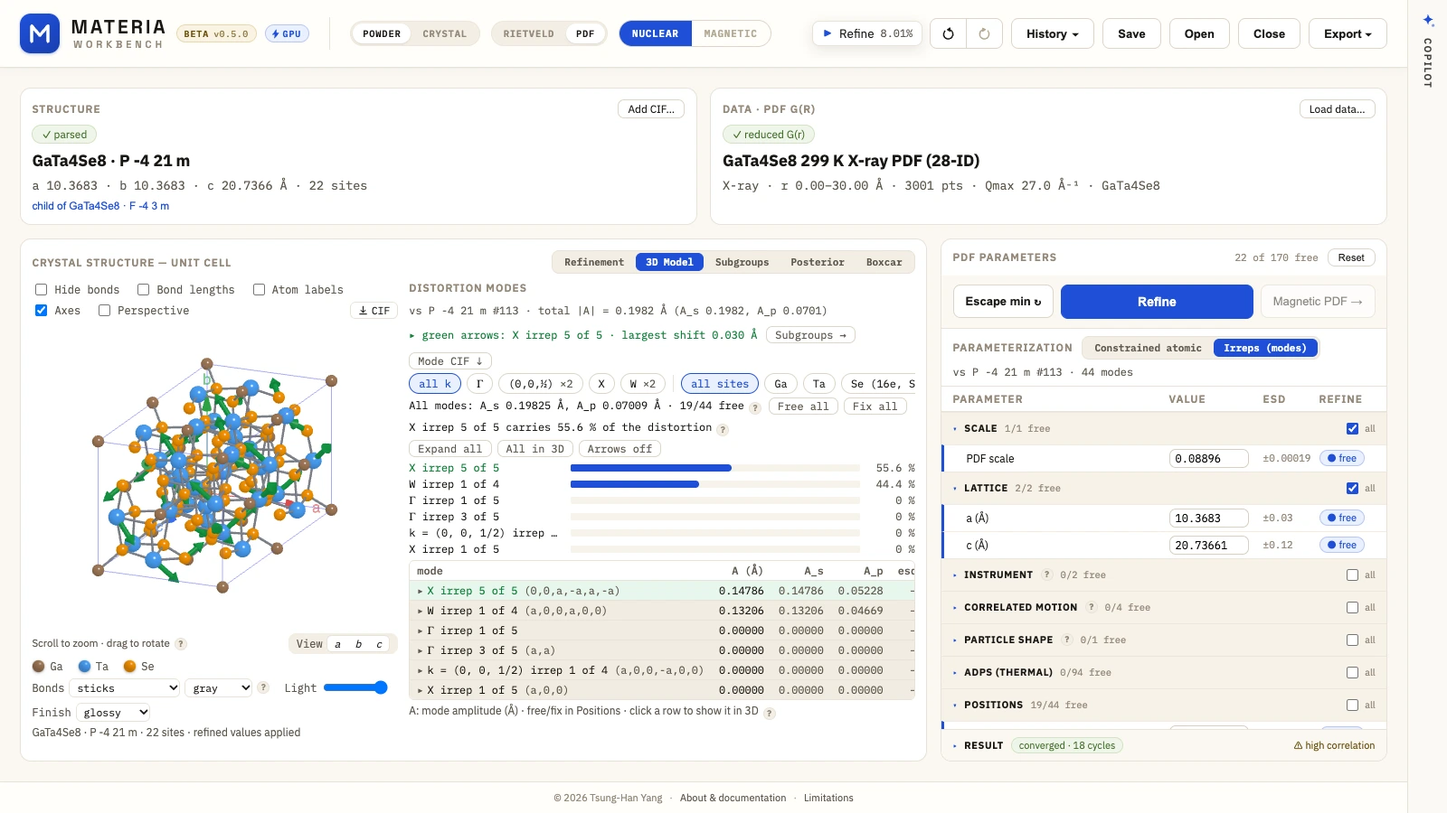
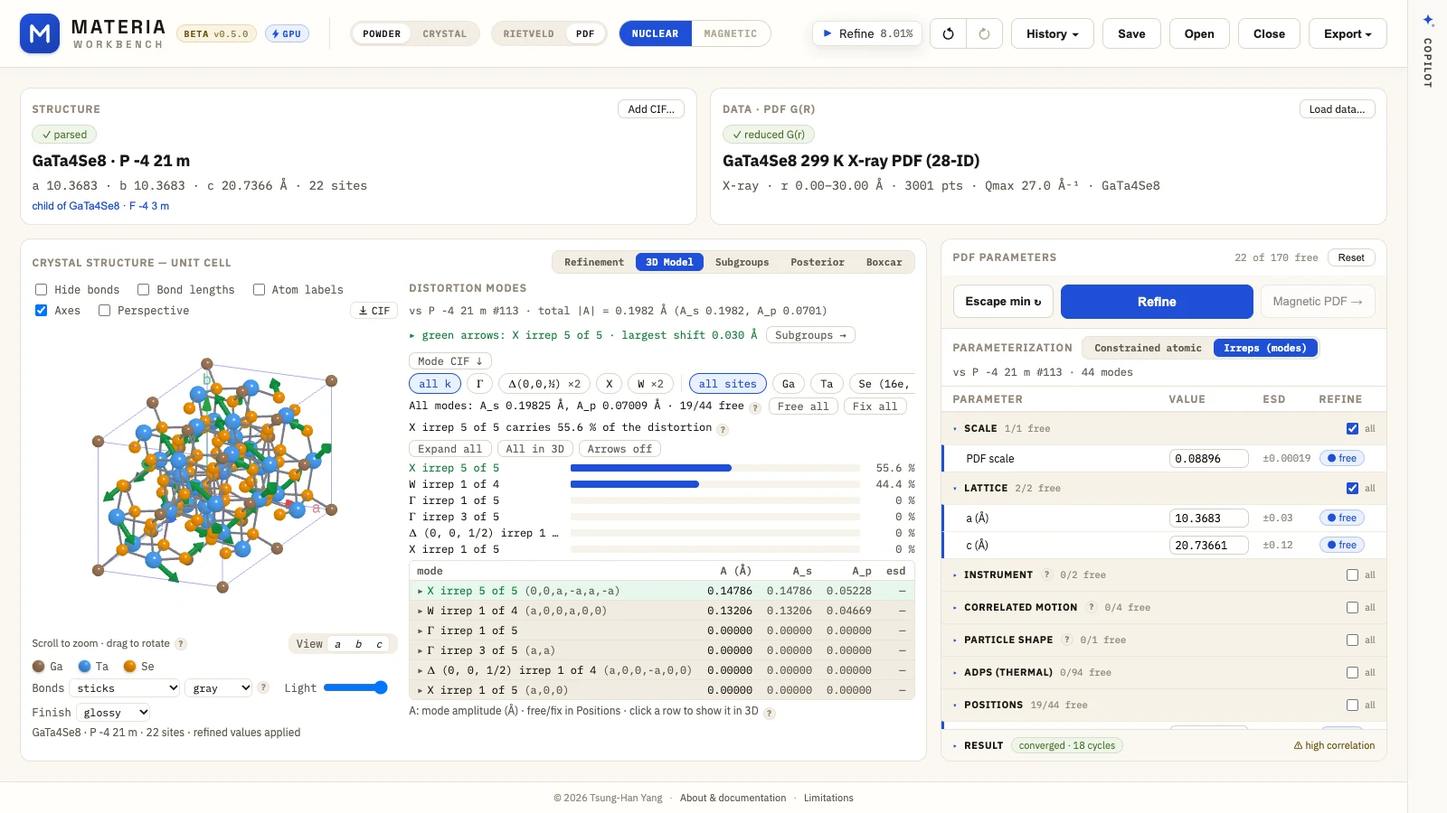
Docs: k-vector names, the decision, the report, the re-shot images (THY-73)
- ADR 0004: the owner's decision (option 1, built for a later table),
  what shipped (k-vector names from the convention, the ISOTROPY check
  and what it removed, the label-provider seam), and the permission
  request; ADR 0005: ISOTROPY's k-point list is a check, never a source.
- docs/reports/2026-11-08-k-vector-names.md: where each reference value
  came from, the oracle runs, every old -> new star name in 2×2×2, saved
  projects, checks, and the paid eval to run.
- GLOSSARY (k-vector name), LIMITATIONS (unnamed lattices, old projects),
  VALIDATION (2279 names agree), CHANGELOG (Unreleased).
- README and DEMO_SCRIPT images re-shot from the production build (the
  Copilot's by a scripted model): subgroups-tree, subgroups-find,
  modes-3d, copilot-lowered, whose chips now read Δ(0,0,½).

Changed region(s): [[0.3125, 0.6844, 0.625, 0.8711], [0.3438, 0.4667, 0.625, 0.4978], [0.2812, 0.6533, 0.375, 0.6844]]

diff --git a/docs/reports/2026-11-08-k-vector-names.md b/docs/reports/2026-11-08-k-vector-names.md
@@ -1,0 +1,181 @@
+# k-vector names in the Bilbao convention, and a label-provider seam (THY-73)
+
+Linear THY-73. The owner lifted the feature freeze for this issue on
+2026-11-08 and chose, after step A, option 1 of
+[ADR 0004](../adr/0004-generic-irrep-labels-in-the-app.md): the Bilbao
+server's k-vector names now, irreps with generic numbers, built so that CDML
+irrep labels can be plugged in later. ADR 0004 holds the licensing analysis,
+the options and the permission request; ADR 0005 holds the rule for the
+ISOTROPY check.
+
+## What changed
+
+- **k-vector names** (`src/core/crystal/irreps/kVectorNames.ts`). A star is
+  named as KVEC names it, with CDML's labels in the conventional reciprocal
+  basis of the ITA standard setting:
+  - a point has its name: "A", "X";
+  - a point on a line has the line's name and its canonical arm's
+    coordinates: "Δ (0, 0, 1/2)".
+
+  The table covers cP, cF, cI, tP, oP and hP, plus hR's T, L and F. It was
+  written by hand from the Bradley & Cracknell / CDML convention. aP, mP,
+  mC, oC, oF, oI, tI and the hR lines keep their coordinates.
+- **Irrep labels**: "<k-vector name> irrep n of m", in THY-64's order, which
+  does not change. The Γ chip keeps "Γn".
+- **A label-provider seam** (`irrepLabels.ts`). Each irrep carries a
+  fingerprint and its generic label. The label shown is the active
+  provider's; the default provider is generic. A table provider matches by
+  fingerprint and leaves the engine, the numbering and saved projects alone.
+  No table ships, and a test proves the seam with a two-row fake table.
+- **Where the names show**:
+  - The Subgroups chips and rows. A tag writes "Δ(0,0,½)·2".
+  - The 3D chips.
+  - The magnetic page ("Γmag = … at A").
+  - The Agent's tools. `list_subgroups`' k filter takes "Δ", "DT", the
+    coordinates, or both.
+  - Mode CIF tokens ("DT_irrep2of4").
+
+## Where the reference values come from
+
+The values in the tests were typed by hand. No Bilbao or ISOTROPY data file
+is committed. Bilbao's programs (KVEC's listings, REPRES) answer scripts with
+a Turnstile bot check, so they were not read; their static help pages were.
+
+| Value | Source | Read |
+| --- | --- | --- |
+| KVEC uses CDML's labels and coefficients (Tables 3.9, 3.11); conventional coefficients for centred lattices; indexed labels only for equivalent representatives; holohedral labels kept in lower classes ("ex") | <https://www.cryst.ehu.eus/cryst/help/brillouin_zone_databases.html> | 2026-11-08 |
+| P321 (No. 150): Δ is 0, 0, z between Γ (z = 0) and A (z = ½); KA is (2/3, −1/3, 0); T, TA, LD, M share a block, T and TA meeting at M; S, SA, Q, QA, L share one; R3 (No. 146): LD at primitive (¼, ¼, ¼) is (0, 0, ¾) on hexagonal axes; the 3-fold line's labels depend on the axial ratio; C12/m1's labels are A112/m's, transformed | <https://www.cryst.ehu.eus/cryst/help/examples_kvec.html> | 2026-11-08 |
+| REPRES's irrep labels coincide with CDML's and ISOTROPY's | <https://www.cryst.ehu.eus/rep/repres.html> | 2026-11-08 |
+| F-43m (GaTa₄Se₈): "Δ (0,0,½)", "Σ (0,½,½)"; fcc K (¾,¾,0) and U (¼,1,¼); P6₃/mmc (Mn₃Ga) A | the THY-73 issue | 2026-11-04 |
+| Every other name in `kVectorNames.test.ts` | the Bradley & Cracknell / CDML convention, as written in the table | — |
+| SrTiO₃, Sr at the origin: M irrep 3 (the in-phase tilt) is M2+, R irrep 8 (the antiphase tilt) is R5−; with Ti at the origin M3+ and R4+ | the ISOTROPY oracle's correspondence by character, runs [41578511400](https://github.com/drthyang/materia-platform/actions/runs/41578511400) (2026-11-03) and [42520923238](https://github.com/drthyang/materia-platform/actions/runs/42520923238) (2026-11-08); R4+ → R5− on moving the origin from B to A, Perez-Mato, Orobengoa & Aroyo (2010), *Acta Cryst.* A66, 558, footnote 9 | 2026-11-08 |
+
+The SrTiO₃ correspondence is stated in USER_GUIDE as a note, not a table the
+app ships.
+
+## The ISOTROPY check
+
+The opt-in `isotropy-oracle.yml` label step now also compares every name with
+ISOTROPY's k-vector list for all 230 types. ISOTROPY lists one label per
+k-vector type, so the check samples each of its points, its lines at a = 1/16,
+and its planes. It is a check, not a source.
+
+- **First run** ([42519260770](https://github.com/drthyang/materia-platform/actions/runs/42519260770)):
+  1908 agree and 51 disagreements, all from three entries written from
+  Bradley & Cracknell whose CDML labels differ: fcc Z (X–W), and orthorhombic
+  E and P (U–R and T–R).
+  - Those three were removed, not replaced from ISOTROPY.
+  - fcc S (X–U) and bcc F (P–H), B&C lines ISOTROPY does not list, were
+    withdrawn with them.
+  - The rule that a line point is named only on a line of symmetry of the
+    group was dropped. CDML and KVEC keep the holohedry's labels in every
+    class (ISOTROPY lists Σ in P6, for instance), and THY-73 asks for Σ on
+    F-43m.
+- **Second and final runs** ([42519747305](https://github.com/drthyang/materia-platform/actions/runs/42519747305),
+  [42520923238](https://github.com/drthyang/materia-platform/actions/runs/42520923238),
+  every step): **2279 agree, 0 disagree**, and 1857 of ISOTROPY's
+  k-vectors are left unnamed by design (the lattices above, planes, general
+  points).
+- **Unconfirmed** (ISOTROPY does not list them, since each shares a k-vector
+  type with another): fcc K and U, hexagonal T, S, KA and HA. They stay as
+  written, because Bilbao's help or the issue names them. They are to check
+  by hand on KVEC.
+- **Labels, by character**: 26 cases, all one to one, with each irrep's
+  fingerprint printed beside ISOTROPY's label. The 10 new cases are F-43m W,
+  Δ and Σ, P6₃/mmc Δ (1×1×4), P4/mmm X and A, Pnma X and Y, and P2₁/c Z and
+  B. The isotropy-subgroup (13) and mode-amplitude (3) steps also pass. The
+  correspondences stay in the CI log (ADR 0005).
+
+## Old → new (model-visible)
+
+Every star name that changes in the default 2×2×2 bound, over the 230 types
+in their reference settings: 643 stars. Every one was "k = (…)" before. cP
+and the decentring points (X of F, H of I) were named already and do not
+change.
+
+| Lattice (types) | Old → new |
+| --- | --- |
+| cF (11) | k = (0, 0, 1/2) → Δ (0, 0, 1/2); k = (0, 1/2, 1/2) → Σ (0, 1/2, 1/2) |
+| cI (10) | k = (0, 0, 1/2) → Δ (0, 0, 1/2) |
+| tP (49) | k = (0, 1/2, 0) → X; (1/2, 1/2, 0) → M; (0, 0, 1/2) → Z; (0, 1/2, 1/2) → R; (1/2, 1/2, 1/2) → A |
+| oP (30) | k = (1/2, 0, 0) → X; (0, 1/2, 0) → Y; (0, 0, 1/2) → Z; (1/2, 1/2, 0) → S; (1/2, 0, 1/2) → U; (0, 1/2, 1/2) → T; (1/2, 1/2, 1/2) → R |
+| hP (45) | k = (0, 0, 1/2) → A; (0, 1/2, 0) → M; (0, 1/2, 1/2) → L |
+| hR (7) | k = (0, 0, 3/2) → T; (0, 1/2, −1/2) → L; (1/2, 1/2, 0) → F |
+
+Irrep labels, tags and chips follow these names, for example:
+
+- "k = (0, 0, 1/2) irrep 2 of 3" → "A irrep 2 of 3" (Mn₃Ga's magnetic step);
+- "k = (0, 0, 1/2) irrep 1 of 4" → "Δ (0, 0, 1/2) irrep 1 of 4" (GaTa₄Se₈);
+- the tag "(0,0,½)·1" → "Δ(0,0,½)·1";
+- the mode CIF token "k_irrep1of4" → "DT_irrep1of4".
+
+Re-baselined deliberately:
+
+- `irrepLabels.golden.json`, labels only, every fingerprint unchanged:
+  P6₃/mmc A, P4₂/mnm Z and P4/mmm Z, and GaTa₄Se₈ 1×1×2 and 2×2×2 (Δ, Σ).
+- `magneticStep.test.ts` ("A irrep n of 3").
+- `representationAnalysisLegacy.test.ts` (Pnma "X irrep n of 2").
+- `demo-qa.mjs`'s chip "Δ (0, 0, 1/2), supercell".
+
+Four images that show a chip were shot again from the production build,
+the Copilot's by a scripted model (no model called):
+`subgroups-tree.webp`, `subgroups-find.webp`, `modes-3d.webp` (README) and
+`copilot-lowered.webp` (DEMO_SCRIPT's fallback).
+
+No agent snapshot (`model-text.arm-b.md`, `model-text.arm-c.md`), scripted
+replay or grader changed. The demo's labels do not change: "X irrep 5 of 5",
+"W irrep 1 of 4", "R irrep 8 of 10" and "M irrep 3 or 7" are at points that
+were named already.
+
+## Saved projects
+
+A project saved before this change opens as before. Its mode rows keep the
+text they were saved with, such as "k = (0, 0, 1/2) irrep 2 of 4". The 3D
+k-point chips name the star anew ("Δ (0, 0, 1/2)"), because they are worked
+out from the parent group. Activate again to get the new labels everywhere.
+LIMITATIONS says so.
+
+## Checks
+
+- **Typecheck, lint, build**: all pass.
+- **Full suite**: 401 files pass and 35 are skipped (the opt-in and paid ones).
+- **The local gate**: `src/agent` (graders, scripted replays, held-out,
+  regrade) passes unchanged.
+- **Browser** (`scripts/irrep-labels-check.mjs`, Chrome 157): 53 cases and
+  387 labels as the golden.
+- **Demo QA** (`scripts/demo-qa.mjs`, production build, three viewports):
+  19 of 19 steps pass. The GaTa₄Se₈ 1×1×2 chips are Γ, X, Δ (0, 0, 1/2) and
+  W.
+
+## Paid evals the owner may run (not run here)
+
+The Agent reads the new names in two places:
+
+- `list_subgroups`: the rows' `irreps` and the k filter;
+- the labels of the modes of a child at a newly named star.
+
+`review_symmetry` carries no irrep labels. The magnetic tools read Route A,
+whose output has no star names.
+
+- **`pdf-lower-symmetry`** is the one scenario that reaches them. Its
+  listing of GaTa₄Se₈'s 1×1×2 subgroups now reads "Δ(0,0,½) irrep n" where
+  it read "(0,0,½) irrep n". The row it lowers to and the irreps it kicks
+  ("X irrep 5", "W irrep 1") do not change.
+  - Haiku 5.5 and Sonnet 5.5, 3 runs each.
+  - About $1–2 at list price. The 2026-11-07 gate averaged about $0.08 a
+    Sonnet run and $0.01 a Haiku run (AGENT_EVALS), and this scenario's
+    listings are longer, so allow two to three times that.
+- **No other scenario needs a re-run.**
+
+## Open
+
+- **CDML irrep labels** (option 3 of ADR 0004): the permission request is the
+  owner's to send. With a permitted table, a provider plugs into
+  `irrepLabels.ts`.
+- **Names still to add**, once their CDML labels can be checked by hand on
+  KVEC: aP, mP, mC, oC, oF, oI, tI, the hR lines, fcc X–W, and
+  orthorhombic U–R and T–R.
+- **Unconfirmed entries**: fcc K and U, and hexagonal T, S, KA and HA are to
+  check by hand on KVEC.
+- **The Γ chip's "Γn"** is outside the provider seam. A table provider would
+  add one call in `displaciveModes.ts`.

diff --git a/docs/adr/0004-generic-irrep-labels-in-the-app.md b/docs/adr/0004-generic-irrep-labels-in-the-app.md
@@ -27,11 +27,20 @@ The owner asked for the Bilbao Crystallographic Server's names: KVEC's k-vector 
 
 So Bilbao's irrep labels at every k mean shipping a label table taken from ISO-IR: every irrep of every group at every k-vector type, with enough characters to match the app's. That needs permission.
 
-**Options** (the owner's decision, pending):
+**Options** considered:
 
 1. k-vector names now, irreps keep generic numbers with the name: "Δ irrep 2 of 4". No licence question.
 2. Option 1, plus CDML labels by the point-group rule where the small representations are ordinary. The rule would be transcribed from ISOTROPY and swept against it in CI for every space-group type, with generic numbers elsewhere. It covers SrTiO₃ (Pm-3m) and GaTa₄Se₈ (F-43m), but not Mn₃Ga's A point, and it shows two label styles side by side. ADR 0005 would need amending.
 3. Ask permission. H. T. Stokes and B. J. Campbell (BYU) would allow a compact label table generated from ISO-IR inside MATERIA under AGPL-3.0, with attribution. M. I. Aroyo (Bilbao) would be informed, since REPRES uses the same labels. With it, every irrep gets its Bilbao label, matched by characters when the table is built.
 4. Bring your own table. The user downloads ISO-IR from BYU and the browser reads it locally, so nothing is redistributed. Complete, but clumsy (55 MB).
 
-Recommended: 1 now, 3 in parallel, and 2 only if permission is refused. Until the owner decides, the app keeps "irrep n of m" in THY-64's order, prefixed with the k-vector name.
+**Decision** (the owner, 2026-11-08): option 1 now, built so that better labels can be plugged in later. Option 3 stays open; the request below is the owner's to send.
+
+**What shipped** (THY-73):
+
+- *k-vector names* (kVectorNames.ts), written by hand from the Bradley & Cracknell / CDML convention for the cubic, tetragonal-P, orthorhombic-P and hexagonal lattices and the rhombohedral T, L and F, in the conventional reciprocal basis of the ITA standard setting (other settings are brought there first). A point has its name ("A"); a point on a line has the line's name and the coordinates of its star's canonical arm ("Δ (0, 0, 1/2)"), so the name does not depend on the arm and two stars on one line stay apart. As in CDML and KVEC, the holohedry's labels hold in every class of the lattice (F-43m's (0, ½, ½) is Σ); segments a lower class no longer relates to the holohedry's stay unnamed. Triclinic, monoclinic, centred orthorhombic and body-centred tetragonal lattices keep coordinates, because their CDML labels could not be written from the convention with confidence.
+- *The check* (ADR 0005's wording kept): the opt-in ISOTROPY oracle compares every name with ISOTROPY's k-vector list for all 230 types. ISOTROPY is a check, not a source. Where it disagreed, the entry was removed, never corrected from it: Bradley & Cracknell's fcc Z (X–W) and orthorhombic E and P. Two further B&C lines it does not list, fcc S and bcc F, were withdrawn with them. The run after that: 2279 names agree, 0 disagree.
+- *Irrep labels*: "<k-vector name> irrep n of m" in THY-64's order ("A irrep 1 of 3", "R irrep 8 of 10"); Γ keeps "Γn" on the Γ chip.
+- *A label-provider seam* (irrepLabels.ts). Each irrep carries a fingerprint: the parent's setting, the star's name and k-vector label, the arm, the dimensions, the reality, and the small representation's characters on THY-64's fixed list of elements, rounded to 1e-3, in one key. The label shown is the active provider's, else the generic one. The default provider gives the generic labels. A table provider (`fingerprintTableProvider`), for a permitted CDML table or one built in the browser from a user's own ISO-IR file, matches by that key; an irrep it does not know keeps its generic label, and the engine, its numbering and saved projects (whose labels are text) do not change. No table ships. A test proves the seam with a two-row fake table. The Γ chip's "Γn" (displaciveModes.ts) is outside the seam: a table provider would add one call there.
+
+**The permission request** (draft, for the owner to send to H. T. Stokes and B. J. Campbell, BYU, copying M. I. Aroyo, Bilbao): "MATERIA (github.com/drthyang/materia-platform, AGPL-3.0) computes space-group irreps itself and would like to show the CDML labels that ISO-IR and Bilbao's REPRES use. May we ship a compact table generated from ISO-IR, giving labels and the characters needed to match them, inside the AGPL app, citing ISO-IR and Stokes, Campbell & Cordes (2013)?"

diff --git a/docs/VALIDATION.md b/docs/VALIDATION.md
@@ -67,7 +67,8 @@ folder skip when it is absent (CI, fresh clones).
 | Abelian little-group irreps + Γ_mag decomposition + mode projection | golden (P1/C2/Ci/D2/C4) | ✅ `core/magnetic/irreps.test.ts` |
 | Representation analysis on the subgroup engine at any commensurate k (17 cases, non-abelian little co-groups at k ≠ 0 included): integral multiplicities that account for Γ_mag; every isotropy subgroup of every irrep and order-parameter direction a candidate group of the magnetic-space-group route, named with the BNS number and type spglib gives it | oracle (the THY-37 fixture, spglib 2.8) | ✅ `core/magnetic/representationAnalysis.test.ts` |
 | The engine keeps the abelian route's answers where it applied (15 cases): the same irreps by character, multiplicities, reference-site modes and isotropy subgroups; its two wrong answers (projective cases) listed | regression | ✅ `core/magnetic/representationAnalysisLegacy.test.ts` |
-| Generic irrep labels stand for ISOTROPY's Miller–Love (CDML) irreps one to one, by character (16 parent/k cases, P6₃/mmc A and P4₂/mnm Z included) | oracle (ISOTROPY 9.6.1, opt-in `isotropy-oracle.yml`; nothing it prints is committed) | ✅ `core/crystal/irreps/irrepLabelOracle.test.ts` |
+| Generic irrep labels stand for ISOTROPY's Miller–Love (CDML) irreps one to one, by character (16 parent/k cases, P6₃/mmc A and P4₂/mnm Z included) | oracle (ISOTROPY 9.6.1, opt-in `isotropy-oracle.yml`; nothing it prints is committed) |
+| k-vector names (THY-73) are ISOTROPY's (CDML's) for every k-vector ISOTROPY lists in all 230 space-group types, or absent: 2279 agree, 0 disagree | oracle (ISOTROPY 9.6.1, opt-in `isotropy-oracle.yml`, the label step; a check, not a source) | ✅ `core/crystal/irreps/irrepLabelOracle.test.ts` |
 | The irreps each subgroup of a supercell bound activates (the PDF Subgroups page's By subgroup rows): every primary irrep's isotropy subgroup in its class and every fitting By-irrep child a class naming it, each again by the inverse query, every coupled set's joint isotropy subgroup the class (SrTiO₃ 2×2×2, GaTa₄Se₈ 1×1×2 and 2×2×2); SrTiO₃'s tilt classes from geometric tilts; Bilbao's Landau-type counts, Pnma (a, b, 2c) 6 and Fm-3m (½a−½b, ½a+½b, 2c) 31 | cross-check (two routes in the engine) + golden (geometric tilts) + published (Bilbao SUBGROUPS tutorial) | ✅ `core/crystal/irreps/subgroupIrreps.test.ts`, `app/ui/subgroupPicker.test.ts`; the rows the page's worker sends equal the main-thread listing, row for row (SrTiO₃ 2×2×2, GaTa₄Se₈ 1×1×2): `app/ui/supercellListing.test.ts` |
 | `review_symmetry` on the subgroup engine: standard names with their setting (I4₁/amd's Imma, R-3c's R-3, Cmcm's two Pnma classes), a line allowed through any member of its family | golden | ✅ `core/diagnostics/symmetryReview.test.ts` |
 | Mode amplitudes recovered from a model's moments (open-on-model, demo seeding) | round trip + the 30 K mCIF | ✅ `core/magnetic/amplitudeFit.test.ts` |

diff --git a/GLOSSARY.md b/GLOSSARY.md
@@ -64,8 +64,12 @@ _Avoid_: real irrep
 The finite group of matrices an irrep forms acting on its order-parameter space.
 
 **Generic irrep label**:
-MATERIA's name for an irrep: its k-point (Γ, X, L, …, or the vector where the point has no standard name here) and its place among the star's irreps, "X irrep 2 of 4"; a complex pair reads "irreps 3⊕4". The place is a total order of the irreps themselves (irrepOrder.ts): dimension, then reality, then the characters on a fixed list of the little co-group's rotations, so it is the same on every runtime; the Γ chip's Γn is "Γ irrep n of m". Miller–Love (CDML) labels such as X3⁺ are only read from imported ISODISTORT mode CIFs and matched in the opt-in ISOTROPY oracle (ADR 0004).
+MATERIA's name for an irrep: its k-vector name (Γ, X, A, …; a line's name with its coordinates, "Δ (0, 0, 1/2)"; the vector where it has no name here, see *k-vector name*) and its place among the star's irreps, "X irrep 2 of 4"; a complex pair reads "irreps 3⊕4". The label shown comes from a label provider, matched by the irrep's fingerprint; the default gives these generic labels (irrepLabels.ts). The place is a total order of the irreps themselves (irrepOrder.ts): dimension, then reality, then the characters on a fixed list of the little co-group's rotations, so it is the same on every runtime; the Γ chip's Γn is "Γ irrep n of m". Miller–Love (CDML) labels such as X3⁺ are only read from imported ISODISTORT mode CIFs and matched in the opt-in ISOTROPY oracle (ADR 0004).
 _Avoid_: writing a generic label in CDML form (Γ1, X3); the magnetic page's old "Γ1, Γ2" at every k
+
+**k-vector name**:
+The name of a point or line of symmetry of the Brillouin zone in the CDML (Bradley–Cracknell) nomenclature the Bilbao server's KVEC uses, in the conventional reciprocal basis of the ITA standard setting: "X", "A", "Δ (0, 0, 1/2)" (THY-73; kVectorNames.ts). Written by hand from the convention for the cubic, tetragonal-P, orthorhombic-P and hexagonal lattices and the rhombohedral T, L and F; elsewhere a star keeps its coordinates. The opt-in ISOTROPY oracle checks every name.
+_Avoid_: calling it an irrep label; the irrep's number is MATERIA's (*Generic irrep label*), not CDML's
 
 **Magnetic irrep**:
 An irrep of the parent group with time reversal acting as −1, the representation a magnetic order parameter transforms by; ISODISTORT writes it with an "m" (mX2⁺ for X2⁺). The magnetic page shows the space-group irrep's generic label.

diff --git a/docs/LIMITATIONS.md b/docs/LIMITATIONS.md
@@ -541,14 +541,24 @@ Conventions are pinned in
 - The activation's mode labels name a Γ irrep Γn, the short form of the
   generic "Γ irrep n of m" (the same n). Γn can read as a CDML label (Γ4⁻);
   it is not one.
-- Irrep labels are generic (the k-point, "irrep n of m"): no CDML labels such
-  as X3⁺ ([ADR 0004](./adr/0004-generic-irrep-labels-in-the-app.md)). The
+- k-vector names (THY-73) are the CDML names Bilbao's KVEC uses, for the
+  cubic, tetragonal-P, orthorhombic-P and hexagonal lattices and the
+  rhombohedral T, L and F points. Triclinic, monoclinic, the centred
+  orthorhombic and body-centred tetragonal lattices, the rhombohedral lines,
+  CDML's extra lines of the lower classes (the trigonal "A" lines, F-43m's −Λ)
+  and three lines where Bradley & Cracknell's label is not CDML's (fcc X–W,
+  orthorhombic U–R and T–R) show coordinates instead of a name.
+- Irrep labels are generic (the k-vector name, "irrep n of m"): no CDML labels
+  such as X3⁺ ([ADR 0004](./adr/0004-generic-irrep-labels-in-the-app.md)). The
   number n is MATERIA's own order (dimension, reality, then the characters;
   irrepOrder.ts), the same on every runtime and browser, but not ISOTROPY's
   numbering, and, as any table's, it depends on the setting the operations are
   written in and on the arm of the star. A project saved before THY-64 keeps
   the labels it was saved with (text in its mode rows), which may number an
   irrep differently from the page now; Activate again to get the new labels.
+  So does one saved before THY-73: its mode rows read "k = (0, 0, 1/2) irrep 2
+  of 4" where the page now writes "Δ (0, 0, 1/2) irrep 2 of 4" or "A irrep 2 of
+  3", and its 3D chips take the new names.
   Order-parameter directions are written in MATERIA's irrep basis and can
   differ from ISODISTORT's symbols for the same subgroup, for example (a,a)
   and (a,-a) where ISODISTORT writes (a,0) and (0,a). A few keep an

diff --git a/docs/adr/0005-reference-data-stays-outside-the-repo.md b/docs/adr/0005-reference-data-stays-outside-the-repo.md
@@ -2,4 +2,4 @@
 
 Tests compare against outside references without redistributing them: fixtures generated with spgrep (BSD-3) are committed with attribution; ISO-IR and the ISOTROPY Linux binary (no stated licence) are downloaded in an opt-in CI job and never committed; Bilbao results (CC BY-NC-SA 4.0, incompatible with AGPL-3.0) enter only as published counts written into tests by hand, with their source.
 
-Published nomenclature is not reference data (THY-73, 2026-11-08; ADR 0004). The CDML k-vector names and coefficients that Bilbao's KVEC lists ship in the app, written by hand. The opt-in ISOTROPY oracle checks them against ISOTROPY's k-point list, and its output stays in the CI log. Bilbao's programs answer scripts with a bot check, so their values enter tests only as a person hand-types them from a browser, with the page and the date. Irrep numbering tables, ISO-IR's or Bilbao's, stay out unless their authors give permission.
+Published nomenclature is not reference data (THY-73, 2026-11-08; ADR 0004). The CDML k-vector names and coefficients that Bilbao's KVEC lists ship in the app, written by hand. The opt-in ISOTROPY oracle checks them against ISOTROPY's k-point list, and its output stays in the CI log. That list is a check, never a source: a name it contradicts is removed from the table, not corrected from it (THY-73 removed three, ADR 0004). Bilbao's programs answer scripts with a bot check, so their values enter tests only as a person hand-types them from a browser, with the page and the date. Irrep numbering tables, ISO-IR's or Bilbao's, stay out unless their authors give permission.

diff --git a/CHANGELOG.md b/CHANGELOG.md
@@ -7,6 +7,26 @@ release fixes bugs.
 
 ## [Unreleased]
 
+### Changed
+
+- **k-point names from the Bilbao server's convention** (THY-73). Stars are
+  named as Bilbao's KVEC names them (CDML's labels, in the conventional
+  reciprocal basis of the ITA standard setting): every point of symmetry of
+  the cubic, tetragonal-P, orthorhombic-P and hexagonal lattices (A on
+  P6₃/mmc, Z and R on P4/mmm, X, Y, S, U, T on Pnma, fcc K…) and the
+  rhombohedral T, L and F, and a point on a line by the line and its
+  coordinates: "Δ (0, 0, 1/2)" and "Σ (0, 1/2, 1/2)" on F-43m. Irrep labels
+  follow: "A irrep 1 of 3", "Δ (0, 0, 1/2) irrep 2 of 4"; their numbers
+  (THY-64) do not change. Where no name could be written with confidence the
+  coordinates stay ("k = (0, 0, 1)" on I4/mmm). The Agent reads these names
+  in its tools; `list_subgroups`' k filter takes "Δ", "DT" or the
+  coordinates. Mode CIFs write a line's star as "DT". Saved projects keep
+  the labels they were saved with.
+- **A label-provider seam** (ADR 0004): each irrep carries a fingerprint,
+  and the label shown comes from a provider, generic by default, so CDML
+  labels from a permitted table could be added later without changing the
+  engine, the numbering or saved projects. No table ships.
+
 ## [0.5.0] - 2026-11-07
 
 ### Added
